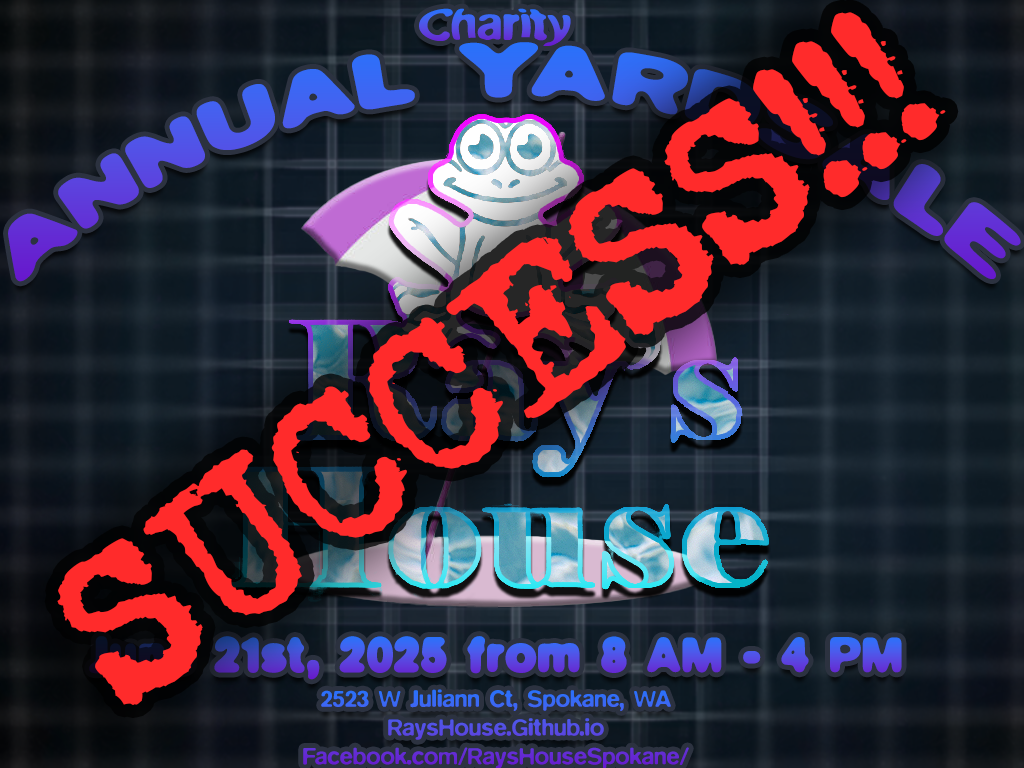
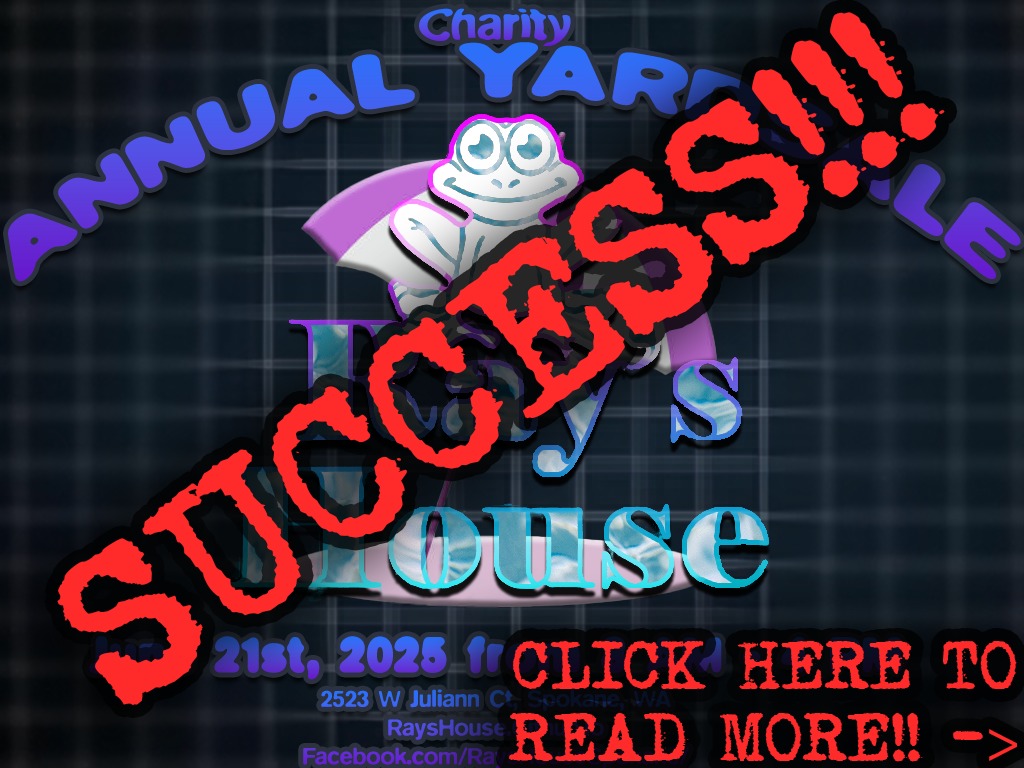
sale

diff --git a/blog.html b/blog.html
@@ -11,6 +11,9 @@
             <br>
             <h2>Blog 'n FB Feed updates</h2>
             <p>Our page</p>
+            <h3 id-"salewin">The Annual Yard Sale was a Success!</h3>
+            <p>Thank you for all of your donations!</p>
+            <img src="SiteImages/salewin.png">
             <h3 id="yardsaleheader"> Annual Yard Sale Announcement May 30 2025</h3>
             <h1>ANNUAL YARDSALE THIS YEAR IS ON JUNE 21ST, 2025!!!!!</h1>
             <img src="SiteImages/YardSalePoster.png" height="450px">
